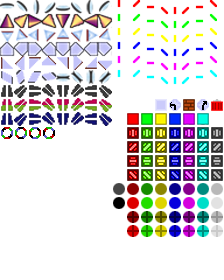
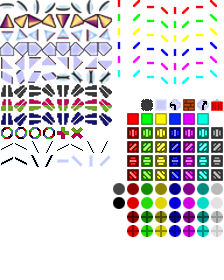
star splitter + skew mirror + double skew mirror + splitter mirror + cross color inverter
git-svn-id: svn+ssh://pixbits.com/svn/cpp-lazers@23 c3e5c5ec-6158-4a85-881a-c4ab5472a772

Changed region(s): [[0.0, 0.4571, 0.5, 0.6], [0.625, 0.3429, 0.6875, 0.4]]

diff --git a/pieces.h b/pieces.h
@@ -175,6 +175,35 @@ class Mirror : public Piece
     Position gfxTile() { return Position{rotation_, 0}; }
 };
 
+class SkewMirror : public Piece
+{
+public:
+  SkewMirror(Direction rotation, Field *field) : Piece(PIECE_SKEW_MIRROR, rotation, COLOR_NONE, field) { }
+  
+  bool produceLaser() { return false; }
+  bool blocksLaser(Laser &laser) { UNUSED(laser); return false; }
+  void receiveLaser(Laser &laser)
+  {
+    s8 delta = deltaDirection(laser);
+    
+    if (delta == 0)
+      laser.rotateRight(3);
+    else if (delta == -1)
+      laser.rotateLeft(3);
+    else if (delta == -2)
+      laser.rotateLeft(1);
+    else if (delta == 1)
+      laser.rotateRight(1);
+    else
+      laser.invalidate();
+  }
+  
+  bool canBeMoved() { return movable; }
+  bool canBeRotated() { return roteable; }
+  
+  Position gfxTile() { return Position{rotation_, 10}; }
+};
+
 class DoubleMirror : public Piece
 {
   public:
@@ -202,6 +231,51 @@ class DoubleMirror : public Piece
     Position gfxTile() { return Position{static_cast<s8>(rotation_%4 + 4), 5}; }
 };
 
+class DoubleSplitterMirror : public Piece
+{
+public:
+  DoubleSplitterMirror(Direction rotation, Field *field) : Piece(PIECE_DOUBLE_SPLITTER_MIRROR, rotation, COLOR_NONE, field) { }
+  
+  bool produceLaser() { return false; }
+  bool blocksLaser(Laser &laser) { UNUSED(laser); return false; }
+  void receiveLaser(Laser &laser);
+  
+  bool canBeMoved() { return movable; }
+  bool canBeRotated() { return roteable; }
+  
+  Position gfxTile() { return Position{static_cast<s8>(rotation_%4 + 4), 11}; }
+};
+
+class DoubleSkewMirror : public Piece
+{
+public:
+  DoubleSkewMirror(Direction rotation, Field *field) : Piece(PIECE_DOUBLE_SKEW_MIRROR, rotation, COLOR_NONE, field) { }
+  
+  bool produceLaser() { return false; }
+  bool blocksLaser(Laser &laser) { UNUSED(laser); return false; }
+  void receiveLaser(Laser &laser)
+  {
+    s8 delta = deltaDirection(laser)%4;
+    if (delta < 0) delta += 4;
+    
+    if (delta == 0)
+      laser.rotateRight(3);
+    else if (delta == 3)
+      laser.rotateLeft(3);
+    else if (delta == 2)
+      laser.rotateLeft(1);
+    else if (delta == 1)
+      laser.rotateRight(1);
+    else
+      laser.invalidate();
+  }
+  
+  bool canBeMoved() { return movable; }
+  bool canBeRotated() { return roteable; }
+  
+  Position gfxTile() { return Position{rotation_%4, 11}; }
+};
+
 class Splitter : public Piece
 {
   public:
@@ -215,6 +289,21 @@ class Splitter : public Piece
     bool canBeRotated() { return roteable; }
   
     Position gfxTile() { return Position{rotation_, 2}; }
+};
+
+class StarSplitter : public Piece
+{
+public:
+  StarSplitter(Field *field) : Piece(PIECE_STAR_SPLITTER, NORTH, COLOR_NONE, field) { }
+  
+  bool produceLaser() { return false; }
+  bool blocksLaser(Laser &laser) { UNUSED(laser); return false; }
+  void receiveLaser(Laser &laser);
+  
+  bool canBeMoved() { return movable; }
+  bool canBeRotated() { return false; }
+  
+  Position gfxTile() { return Position{10, 7}; }
 };
 
 class DSplitter : public Piece
@@ -433,6 +522,31 @@ public:
   bool canBeRotated() { return roteable; }
   
   Position gfxTile() { return Position{rotation_, 7}; }
+};
+
+class CrossColorInverter : public Piece
+{
+public:
+  CrossColorInverter(Direction rotation, Field *field) : Piece(PIECE_CROSS_COLOR_INVERTER, rotation, COLOR_NONE, field) { }
+  
+  bool produceLaser() { return false; }
+  bool blocksLaser(Laser &laser) { UNUSED(laser); return false; }
+  void receiveLaser(Laser &laser)
+  {
+    s8 delta = deltaDirection(laser);
+    
+    if (delta%2 != 0)
+      laser.invalidate();
+    else
+    {
+      laser.color = static_cast<LaserColor>(~laser.color & COLOR_WHITE);
+    }
+  }
+  
+  bool canBeMoved() { return movable; }
+  bool canBeRotated() { return roteable; }
+  
+  Position gfxTile() { return Position{4 + rotation_%2, 9}; }
 };
 
 class Goal : public Piece

diff --git a/pieces.cpp b/pieces.cpp
@@ -10,6 +10,18 @@
 
 #include "lazers.h"
 
+void DoubleSplitterMirror::receiveLaser(Laser &laser)
+{
+  s8 delta = deltaDirection(laser);
+  
+  if (delta == -1 || delta == 3)
+    field->generateBeam(laser.position, laser.rotatedDirection(-2), laser.color);
+  else if (delta == 1 || delta == -3)
+    field->generateBeam(laser.position, laser.rotatedDirection(2), laser.color);
+  else
+    laser.invalidate();
+}
+
 void Splitter::receiveLaser(Laser &laser)
 {
   s8 delta = deltaDirection(laser);
@@ -22,6 +34,16 @@ void Splitter::receiveLaser(Laser &laser)
   }
   else
     laser.invalidate();
+}
+
+void StarSplitter::receiveLaser(Laser &laser)
+{
+  int base = (laser.direction+1)%2;
+  
+  for (int i = 0; i < 4; ++i)
+    field->generateBeam(laser.position, laser.rotatedDirection(1+i*2), laser.color);
+
+  laser.invalidate();
 }
 
 void DSplitter::receiveLaser(Laser &laser)

diff --git a/lazers.h b/lazers.h
@@ -171,6 +171,11 @@ class Field
       tileAt(7,2)->place(new Bender(this));
       tileAt(8,2)->place(new Twister(this));
       tileAt(9,2)->place(new RoundFilter(this));
+      tileAt(10,2)->place(new CrossColorInverter(NORTH, this));
+      tileAt(10,2)->place(new SkewMirror(NORTH, this));
+      tileAt(11,2)->place(new DoubleSkewMirror(NORTH, this));
+      tileAt(12,2)->place(new DoubleSplitterMirror(NORTH, this));
+      tileAt(13,2)->place(new StarSplitter(this));
 
       
 

diff --git a/common.h b/common.h
@@ -55,7 +55,10 @@ enum PieceType : u8
   PIECE_SOURCE,
   PIECE_TARGET,
   PIECE_MIRROR,
+  PIECE_SKEW_MIRROR,
   PIECE_DOUBLE_MIRROR,
+  PIECE_DOUBLE_SKEW_MIRROR,
+  PIECE_DOUBLE_SPLITTER_MIRROR,
   PIECE_SPLITTER,
   PIECE_DSPLITTER, // TODO: rename
   PIECE_PRISM,
@@ -67,6 +70,8 @@ enum PieceType : u8
   PIECE_TUNNEL,
   PIECE_COLOR_SHIFTER,
   PIECE_COLOR_INVERTER,
+  PIECE_CROSS_COLOR_INVERTER,
+  PIECE_STAR_SPLITTER,
   
   PIECE_STRICT_GOAL,
   PIECE_SPLIT_GOAL
